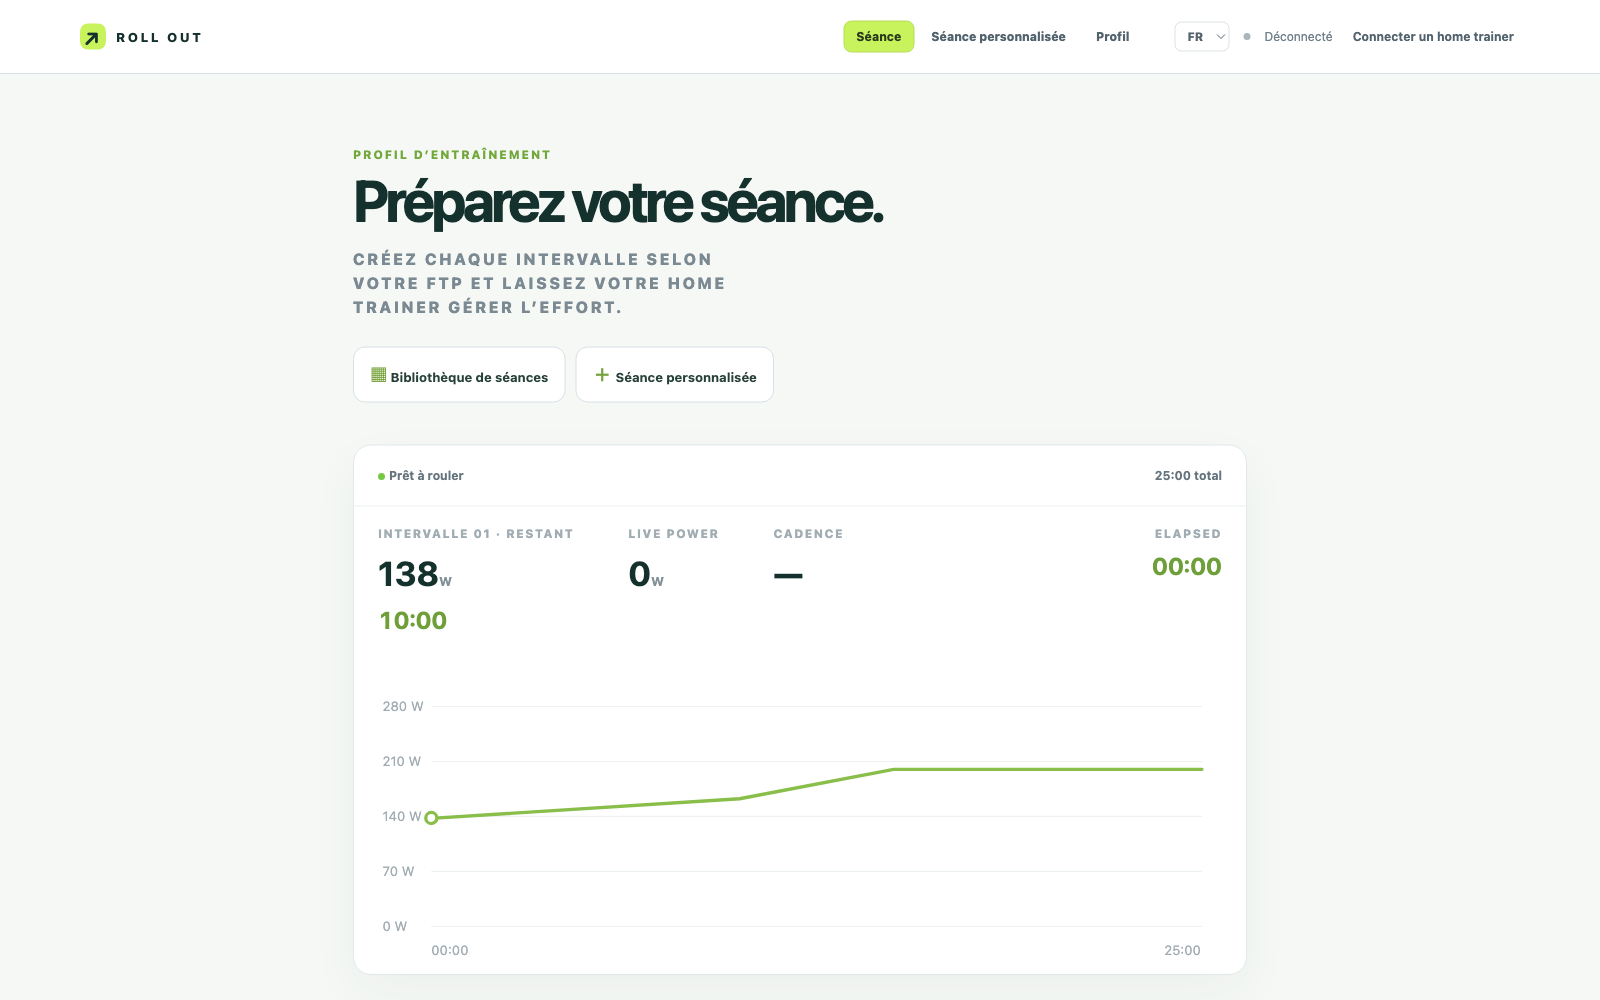
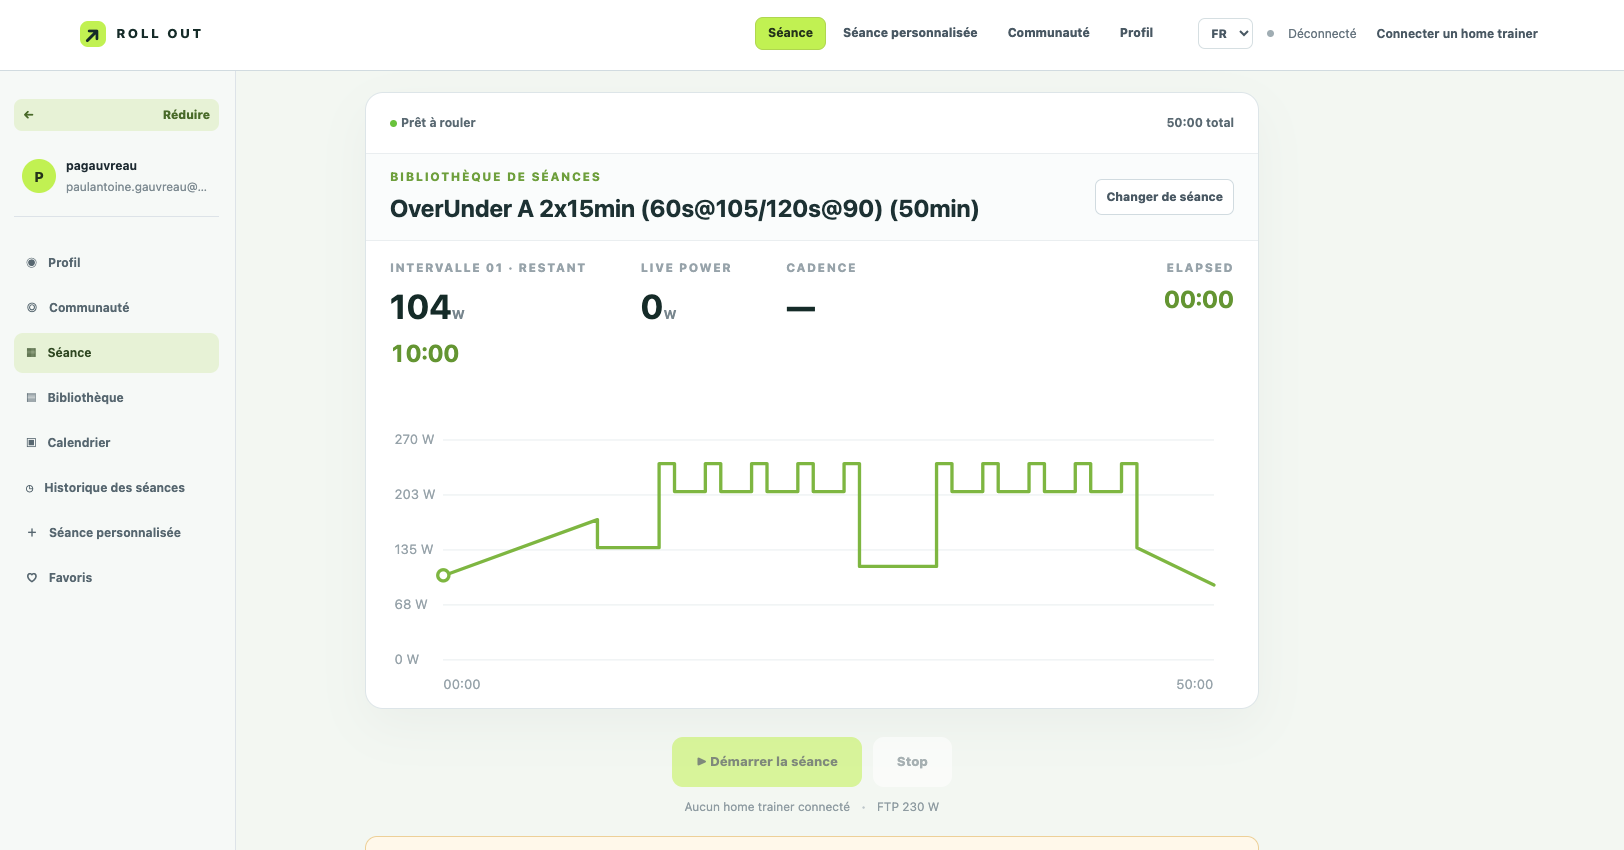
fix

diff --git a/src/scripts/motion.ts b/src/scripts/motion.ts
@@ -4,15 +4,9 @@ type MotionCleanup = () => void;
 
 let pageGeneration = 0;
 let smoothScrollCleanup: MotionCleanup | undefined;
-let methodStackCleanup: MotionCleanup | undefined;
-let methodObserver: IntersectionObserver | undefined;
 
 function clearPageMotion() {
   pageGeneration += 1;
-  methodObserver?.disconnect();
-  methodObserver = undefined;
-  methodStackCleanup?.();
-  methodStackCleanup = undefined;
   smoothScrollCleanup?.();
   smoothScrollCleanup = undefined;
 }
@@ -28,29 +22,6 @@ async function setupPageMotion() {
     smoothScrollCleanup = setupSmoothScroll();
   }
 
-  const methodStack = document.querySelector<HTMLElement>('[data-method-stack]');
-  if (!methodStack || reducedMotion) return;
-
-  const loadMethodStack = async () => {
-    methodObserver?.disconnect();
-    methodObserver = undefined;
-    const { setupMethodStack } = await import('./method-stack');
-    if (generation !== pageGeneration || !methodStack.isConnected) return;
-    methodStackCleanup = setupMethodStack(methodStack);
-  };
-
-  if (!('IntersectionObserver' in window)) {
-    void loadMethodStack();
-    return;
-  }
-
-  methodObserver = new IntersectionObserver(
-    (entries) => {
-      if (entries.some((entry) => entry.isIntersecting)) void loadMethodStack();
-    },
-    { rootMargin: '100% 0px' },
-  );
-  methodObserver.observe(methodStack);
 }
 
 document.addEventListener('astro:before-swap', clearPageMotion);

diff --git a/src/styles/tokens.css b/src/styles/tokens.css
@@ -78,6 +78,8 @@
     --pag-layout-brand-width: 9.7rem;
     --pag-layout-stack-stage-height: 90svh;
     --pag-layout-stack-card-height: min(52rem, 56svh);
+    --pag-layout-stack-sticky-top: var(--pag-dimension-30);
+    --pag-layout-stack-title-offset: var(--pag-dimension-5);
     --pag-layout-stack-scroll-step: 72svh;
     --pag-layout-static-card-height: 28rem;
     --pag-layout-reduced-card-height: 24rem;
@@ -158,6 +160,8 @@
       --pag-layout-header-height: 14.4rem;
       --pag-layout-stack-stage-height: 90svh;
       --pag-layout-stack-card-height: min(58rem, 58svh);
+      --pag-layout-stack-sticky-top: var(--pag-dimension-30);
+      --pag-layout-stack-title-offset: var(--pag-dimension-5);
       --pag-layout-stack-scroll-step: 82svh;
       --pag-layout-static-card-height: 33.6rem;
       --pag-layout-music-card-width: 40rem;

diff --git a/src/styles/global.css b/src/styles/global.css
@@ -19,6 +19,16 @@
     overflow: visible;
     clip-path: inset(-100vmax 0 0 0);
   }
+
+  ._method-card-sticky {
+    position: sticky;
+    top: calc(var(--pag-layout-stack-sticky-top) + var(--pag-method-card-offset, 0rem));
+  }
+
+  [data-method-index="0"] { --pag-method-card-offset: 0rem; z-index: 1; }
+  [data-method-index="1"] { --pag-method-card-offset: var(--pag-layout-stack-title-offset); z-index: 2; }
+  [data-method-index="2"] { --pag-method-card-offset: calc(var(--pag-layout-stack-title-offset) + var(--pag-layout-stack-title-offset)); z-index: 3; }
+  [data-method-index="3"] { --pag-method-card-offset: calc(var(--pag-layout-stack-title-offset) + var(--pag-layout-stack-title-offset) + var(--pag-layout-stack-title-offset)); z-index: 4; }
 }
 
 @media (prefers-reduced-motion: reduce) {
